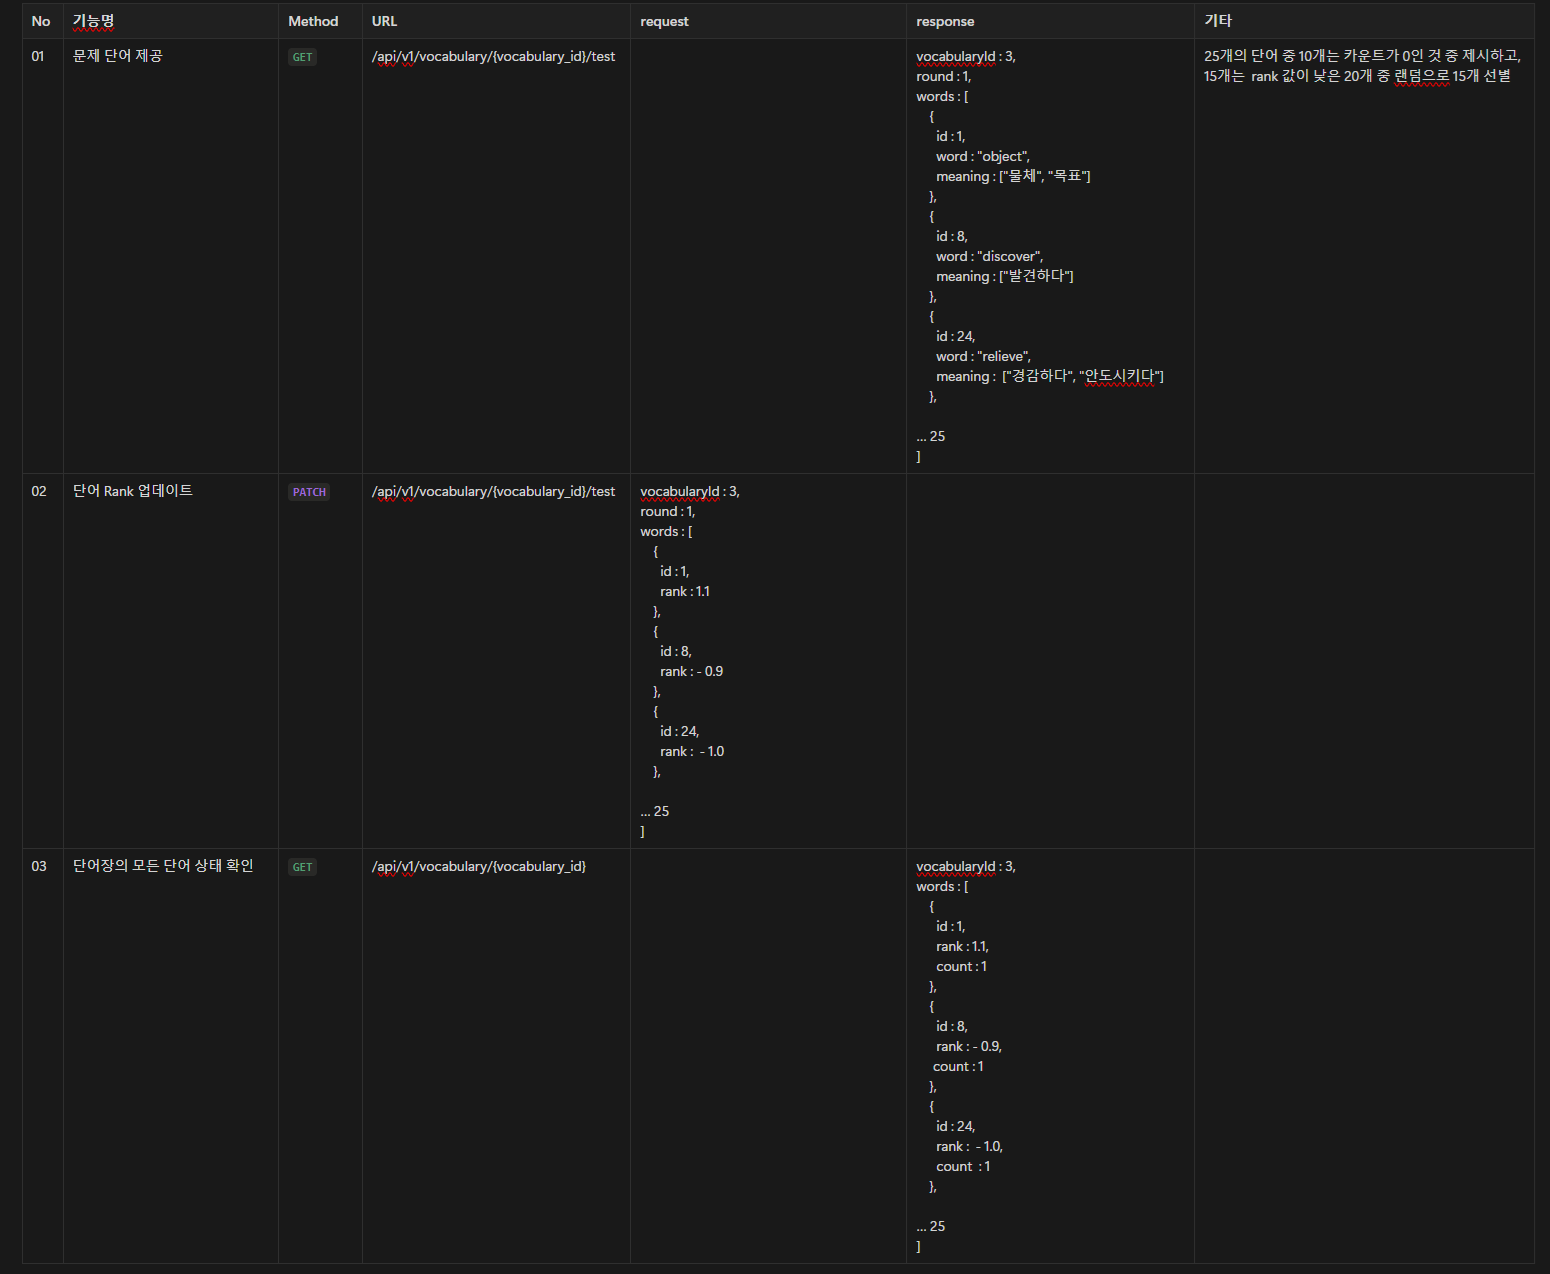
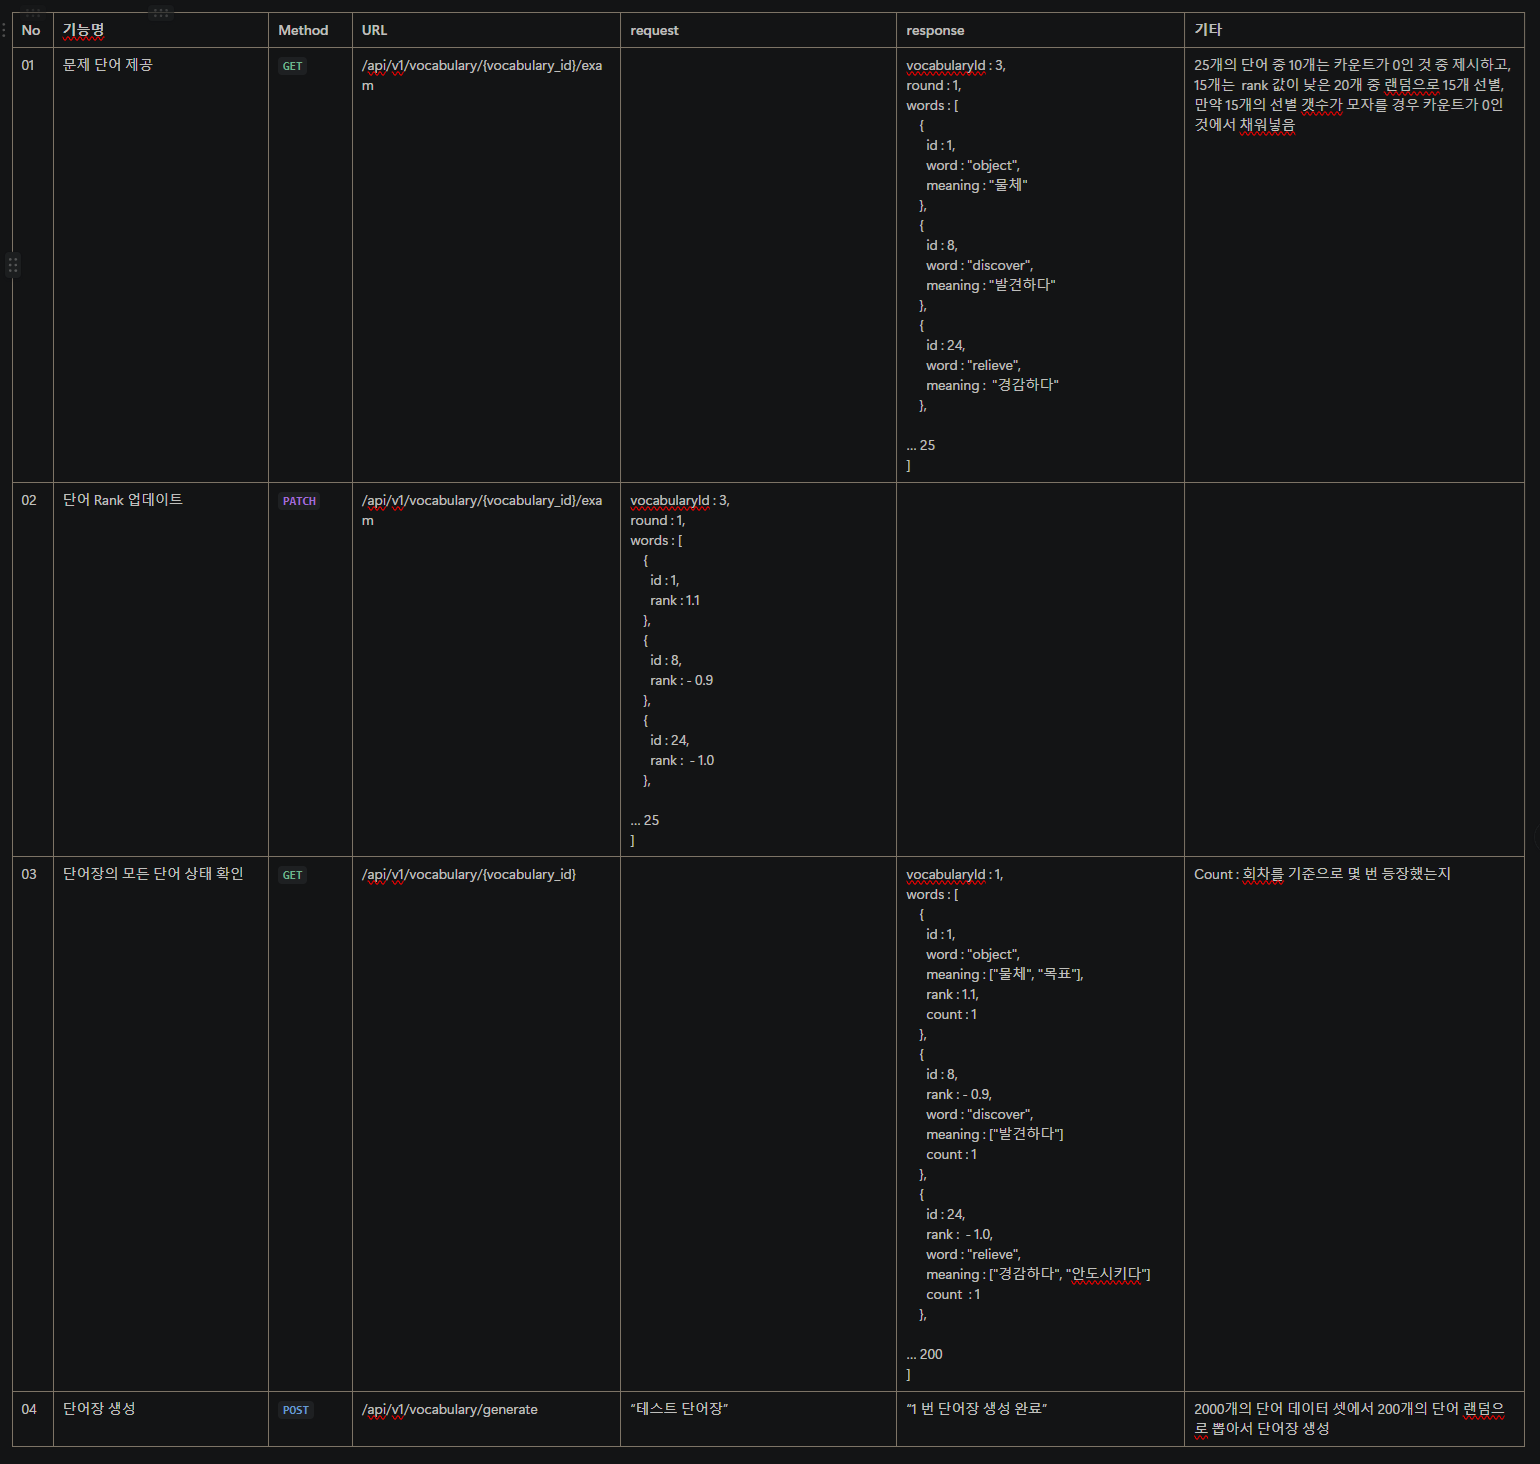
Feat : [🏢DLNL-'보카 테스트 로직'] '단어장 조회' API 추가
*docs : 프로젝트 ReadME API 명세 업데이트

diff --git a/DLNL/Voca/dlnl-voca-test-logic-prac/src/main/java/eh13/prac/dlnlvocatestlogicprac/service/VocabularyService.java b/DLNL/Voca/dlnl-voca-test-logic-prac/src/main/java/eh13/prac/dlnlvocatestlogicprac/service/VocabularyService.java
@@ -2,6 +2,7 @@ package eh13.prac.dlnlvocatestlogicprac.service;
 
 import com.fasterxml.jackson.core.type.TypeReference;
 import com.fasterxml.jackson.databind.ObjectMapper;
+import eh13.prac.dlnlvocatestlogicprac.model.DTO.VocabularyDetailDTO;
 import eh13.prac.dlnlvocatestlogicprac.model.Vocabulary;
 import eh13.prac.dlnlvocatestlogicprac.model.Word;
 import eh13.prac.dlnlvocatestlogicprac.repository.VocabularyRepository;
@@ -14,6 +15,7 @@ import java.util.ArrayList;
 import java.util.Collections;
 import java.util.List;
 import java.util.Map;
+import java.util.stream.Collectors;
 import org.springframework.beans.factory.annotation.Autowired;
 import org.springframework.core.io.ClassPathResource;
 import org.springframework.stereotype.Service;
@@ -34,7 +36,9 @@ public class VocabularyService {
 		try {
 			ObjectMapper mapper = new ObjectMapper();
 			InputStream inputStream = new ClassPathResource("word_data.json").getInputStream();
-			allWords = mapper.readValue(inputStream, new TypeReference<List<Map<String, List<String>>>>(){});
+			allWords = mapper.readValue(inputStream,
+					new TypeReference<List<Map<String, List<String>>>>() {
+					});
 		} catch (IOException e) {
 			throw new RuntimeException("JSON 파일을 읽지 못했습니다.", e);
 		}
@@ -63,9 +67,33 @@ public class VocabularyService {
 
 		return String.format("%s 번 단어장 생성 완료", vocabulary.getId());
 	}
+
 	private List<Map<String, List<String>>> getRandomWords(int count) {
 		List<Map<String, List<String>>> shuffled = new ArrayList<>(allWords);
 		Collections.shuffle(shuffled);
 		return shuffled.subList(0, count);
+	}
+
+	public VocabularyDetailDTO getVocabularyDetail(Long vocabularyId) {
+		Vocabulary vocabulary = vocabularyRepository.findById(vocabularyId)
+				.orElseThrow(() -> new RuntimeException("단어장을 찾지 못했습니다."));
+
+		return VocabularyDetailDTO.builder()
+				.vocabularyId(vocabulary.getId())
+				.name(vocabulary.getName())
+				.words(vocabulary.getWords().stream()
+						.map(this::convertToWordSummary)
+						.collect(Collectors.toList()))
+				.build();
+	}
+
+	private VocabularyDetailDTO.WordSummaryDTO convertToWordSummary(Word word) {
+		return VocabularyDetailDTO.WordSummaryDTO.builder()
+				.id(word.getId())
+				.word(word.getWord())
+				.meaning(word.getMeaning())
+				.rank(word.getRank())
+				.count(word.getCount())
+				.build();
 	}
 }

diff --git a/DLNL/Voca/dlnl-voca-test-logic-prac/src/main/java/eh13/prac/dlnlvocatestlogicprac/controller/VocabularyController.java b/DLNL/Voca/dlnl-voca-test-logic-prac/src/main/java/eh13/prac/dlnlvocatestlogicprac/controller/VocabularyController.java
@@ -1,8 +1,11 @@
 package eh13.prac.dlnlvocatestlogicprac.controller;
 
+import eh13.prac.dlnlvocatestlogicprac.model.DTO.VocabularyDetailDTO;
 import eh13.prac.dlnlvocatestlogicprac.service.VocabularyService;
 import org.springframework.beans.factory.annotation.Autowired;
 import org.springframework.http.ResponseEntity;
+import org.springframework.web.bind.annotation.GetMapping;
+import org.springframework.web.bind.annotation.PathVariable;
 import org.springframework.web.bind.annotation.PostMapping;
 import org.springframework.web.bind.annotation.RequestBody;
 import org.springframework.web.bind.annotation.RequestMapping;
@@ -17,7 +20,11 @@ public class VocabularyController {
 
 	@PostMapping("/generate")
 	public ResponseEntity<String> generateVocabulary(@RequestBody String name) {
-		String result = vocabularyService.generateVocabulary(name);
-		return ResponseEntity.ok(result);
+		return ResponseEntity.ok(vocabularyService.generateVocabulary(name));
+	}
+
+	@GetMapping("/{vocabularyId}")
+	public ResponseEntity<VocabularyDetailDTO> getVocabularyDetail(@PathVariable Long vocabularyId) {
+		return ResponseEntity.ok(vocabularyService.getVocabularyDetail(vocabularyId));
 	}
 }

diff --git a/DLNL/Voca/dlnl-voca-test-logic-prac/src/main/java/eh13/prac/dlnlvocatestlogicprac/model/Word.java b/DLNL/Voca/dlnl-voca-test-logic-prac/src/main/java/eh13/prac/dlnlvocatestlogicprac/model/Word.java
@@ -1,5 +1,6 @@
 package eh13.prac.dlnlvocatestlogicprac.model;
 
+import com.fasterxml.jackson.annotation.JsonBackReference;
 import jakarta.persistence.CollectionTable;
 import jakarta.persistence.Column;
 import jakarta.persistence.ElementCollection;
@@ -38,6 +39,7 @@ public class Word {
 	@ElementCollection
 	@CollectionTable(name = "word_meanings", joinColumns = @JoinColumn(name = "word_id"))
 	@Column(name = "meaning")
+	@JsonBackReference
 	private List<String> meaning;
 
 	@Builder.Default

diff --git a/DLNL/Voca/dlnl-voca-test-logic-prac/src/main/java/eh13/prac/dlnlvocatestlogicprac/model/DTO/VocabularyDetailDTO.java b/DLNL/Voca/dlnl-voca-test-logic-prac/src/main/java/eh13/prac/dlnlvocatestlogicprac/model/DTO/VocabularyDetailDTO.java
@@ -1,0 +1,23 @@
+package eh13.prac.dlnlvocatestlogicprac.model.DTO;
+
+import java.util.List;
+import lombok.Builder;
+import lombok.Data;
+
+@Data
+@Builder
+public class VocabularyDetailDTO {
+	private Long vocabularyId;
+	private String name;
+	private List<WordSummaryDTO> words;
+
+	@Data
+	@Builder
+	public static class WordSummaryDTO {
+		private Long id;
+		private String word;
+		private List<String> meaning;
+		private Float rank;
+		private Integer count;
+	}
+}

diff --git a/DLNL/Voca/dlnl-voca-test-logic-prac/src/main/java/eh13/prac/dlnlvocatestlogicprac/model/Vocabulary.java b/DLNL/Voca/dlnl-voca-test-logic-prac/src/main/java/eh13/prac/dlnlvocatestlogicprac/model/Vocabulary.java
@@ -1,5 +1,6 @@
 package eh13.prac.dlnlvocatestlogicprac.model;
 
+import com.fasterxml.jackson.annotation.JsonManagedReference;
 import jakarta.persistence.CascadeType;
 import jakarta.persistence.Entity;
 import jakarta.persistence.GeneratedValue;
@@ -25,5 +26,6 @@ public class Vocabulary {
 	private String name;
 
 	@OneToMany(mappedBy = "vocabulary", cascade = CascadeType.ALL, orphanRemoval = true)
+	@JsonManagedReference
 	private List<Word> words;
 }
